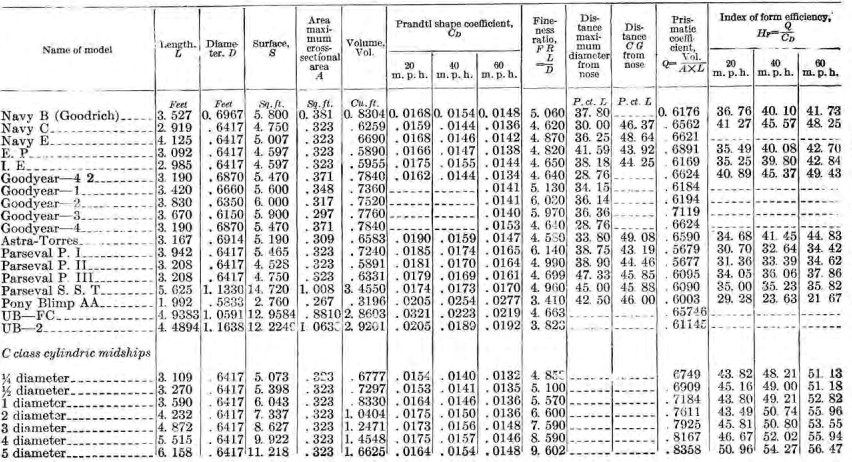
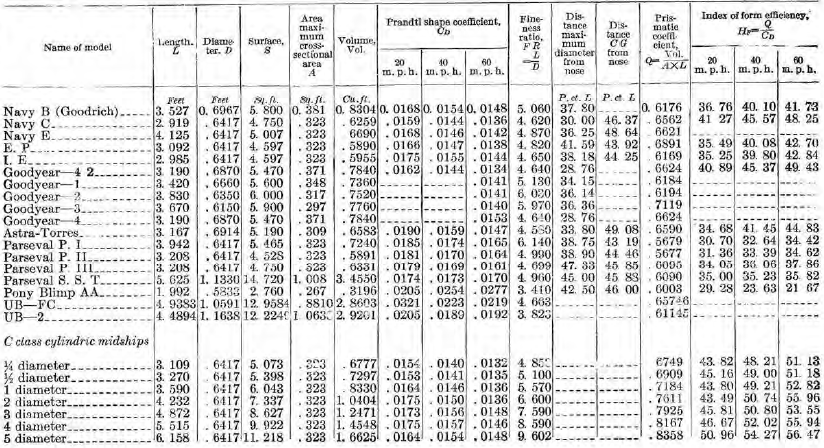
Update Drag

diff --git a/tex/chapter4Discussion.tex b/tex/chapter4Discussion.tex
@@ -4,32 +4,29 @@
 
 \begin{document}
 \chapter{Discussion}
+The current model design contains many unevaluated interference fits, that are not critical design components but a safety factor has not been computed and a level of confidence has therefore not been established. Snap-fits are a suitable alternative to interference fits, although with layered 3D prints, shearing between layers is a serious concern. To improve interference fits, the temperature can be varied to create a larger interference and the materials can be changed to increase the coefficient of friction between interfaces. An interference fit was used in the gondola hinge cap, which is not ideal as any axial load in the direction of press will work against the fit. The bearing used in the thruster assembly is a standard hub fit which should not cause complications. The gondola and casing doors utilize interference, which should work although accessing components on a door while removing the door is not ideal.  The propeller mounting is a standard interference fit, therefore it is not of concern. The keel connector and end stops rely on an interference fit with the keel, which means that if the keel is subject to any force in the x-direction greater than the interference fit force, the keel will become discontinuous. Likewise, if the gondola hits the end stop with too much force, the end stop will come out and the gondola will fall off the keel. The bearing snap-fit on the keel is not an ideal scenario as the direction of 3D printing will likely be at a 45$^{\circ}$, meaning that half of the force is going to be shearing the plastic between the layers.\\
 
-Discussion and Critical Review of Design aka Talk shit about ourselves
-\\
-The current model design contains many unevaluated interference fits, that are not critical design components but a safety factor has not been computed and a level of confidence has therefore not been established. Snap-fits are a suitable alternative to interference fits, although with layered 3D prints, shearing between layers is a serious concern. To improve interference fits, the temperature can be varied to create a larger interference and the materials can be changed to increase the coefficient of friction between interfaces. An interference fit was used in the gondola hinge cap, which is not ideal as any axial load in the direction of press will work against the fit. The bearing used in the thruster assembly is a standard hub fit which should not cause complications. The gondola and casing doors utilize interference, which should work although accessing components on a door while removing the door is not ideal.  The propeller mounting is a standard interference fit, therefore it is not of concern. The keel connector and end stops rely on an interference fit with the keel, which means that if the keel is subject to any force in the x-direction greater than the interference fit force, the keel will become discontinuous. Likewise, if the gondola hits the end stop with too much force, the end stop will come out and the gondola will fall off the keel. The bearing snap-fit on the keel is not an ideal scenario as the direction of 3D printing will likely be at a 45$^{\circ}$, meaning that half of the force is going to be shearing the plastic between the layers.
-\\
-For this project, the envelope was not designed for any purpose but for reference. Dr. Lanteigne will be designing the envelope, therefore it was only design aesthetically and for the simplicity of calculating values such as volume. Given the complexity of the keel, thruster and gondola desgin, it would be highly beneficial to have the exact design of the envelope or to have designed it independently to have components mesh better. 
-\\
-Many components are not analysed and therefore parametrized because they are over engineered for the use. Examples of over engineered components are the bearing in the thruster assembly, the strength of fasteners, the servo mounting bracket, etc. These parts were not analysed because they are much too strong to fail in any anticipated scenarios. In retrospect, it would have been reasonable to vary the material of these components to further parametrize although conventional, off-the-shelf components will always be the least expensive to procure.
-\\
-It is not reasonable to parametrize objects that vary in design between iterations, such as propellers and propeller motors. These components vary in size, shape and mounting techniques, rendering it impossible to create Solidworks models that can represent a list of different components options. The MATLAB code outputs the suggested motor and propeller options independently of the Solidworks files. This means that the some files, also including the thread on the thruster shaft are aesthetic only and the MATLAB code should be consulted for specific suggestions.
-\\
-The servo motor mounting bracket is made up of several parts that are fastened using fasteners and welding techniques that create a complicated assembly procedure. This assembly is off-the-shelf with the addition of the custom bearing bracket, but the geometry required complicates the method of installation, such as the screws inside the hollow mounting block.
-\\
-Generally, there are too many fasteners in this assembly, which negatively contribute to the weight limitations. Using alternatives such as welding or plastic fasteners could address this issue. 
-\\
-Glueing components is not the preferred method of mounting, but it is necessary in some scenarios. In order to adequately mount the thruster assembly to the envelope, double sided tape will be placed along the mounting plate and onto the envelope. removing this tape will not be easy as the polyurethane will likely tear. Glueing the thruster arms to the thruster assembly is highly dependent on the prestress in the epoxy and the integrity of the weld holding the arm cap to the mounting plate. Glueing the component casing on the thruster assembly is also not an ideal scenario as it could travel while setting and it is not longer removable once place.
-\\
-The friction wheel motor has a shaft size of 1mm and the friction wheel has an ID of above 6mm, therefore a shaft adapter piece is 3D printed to bridge the gap. This is not ideal as the plastic can easily be deformed and shear along the print orientation. It would be preferred if compatible sizes for the shaft and friction wheel were chosen, although this is difficult given the 1cm width of the keel. The friction coefficient used for the friction wheel and the polyurethane sheet covering the keel was estimated very roughly as there is a lack of data on the subject.
-\\
-3D printing technology has come a long way but it is still not feasible for load bearing applications at affordable prices, therefore it is not ideal that many components are 3D printed. Material properties for 3D printed materials are only very roughly estimated and the print setting influence the properties as infill, print speed, layer height, heat, strand orientation, etc. each have a significant impact on the properties exhibited.
-\\
-Carbon fibre parts are not easy to manufacture in house but given the complexity it would be difficult to commission custom molding without the high startup cost of mold creation (as seen in the quote obtained from an Alibaba Supplier in Appendix \cite{KEELQUOTE}). Therefore the material properties of the thruster arms are highly dependent not only on the material used but also the skill of the manufacturer.
-\\
-The cable glands used in the solid model are not dimensioned based on any design, they are simply assumed to be in existence. Cable glands are also often designed to contain one wire, but the gondola requires several to pass through one gland, minimizing it's effectiveness in waterproofing the gondola. The thruster motor was not waterproofed, therefore it will likely be the weakest link when it comes to rainfall. The thruster motor can be easily removed, making this issue less critical in a potential failure. 
-\\
-Wiring of components was not a significant consideration. There is no consideration for how the wires will be managed within the gondolas, although this will be aesthetically pleasing as few wires are visible. A downfall of wireless communication transmission is the lack of confidence in operation overtime. The thruster shaft has a wire running through it from the components to the propeller motor, with makes wire removal difficult as well as servicing the shaft and the components attached to it.
-\\
+For this project, the envelope was not designed for any purpose but for reference. Dr. Lanteigne will be designing the envelope, therefore it was only design aesthetically and for the simplicity of calculating values such as volume. Given the complexity of the keel, thruster and gondola desgin, it would be highly beneficial to have the exact design of the envelope or to have designed it independently to have components mesh better.\\
+
+Many components are not analysed and therefore parametrized because they are over engineered for the use. Examples of over engineered components are the bearing in the thruster assembly, the strength of fasteners, the servo mounting bracket, etc. These parts were not analysed because they are much too strong to fail in any anticipated scenarios. In retrospect, it would have been reasonable to vary the material of these components to further parametrize although conventional, off-the-shelf components will always be the least expensive to procure.\\
+
+It is not reasonable to parametrize objects that vary in design between iterations, such as propellers and propeller motors. These components vary in size, shape and mounting techniques, rendering it impossible to create Solidworks models that can represent a list of different components options. The MATLAB code outputs the suggested motor and propeller options independently of the Solidworks files. This means that the some files, also including the thread on the thruster shaft are aesthetic only and the MATLAB code should be consulted for specific suggestions.\\
+
+The servo motor mounting bracket is made up of several parts that are fastened using fasteners and welding techniques that create a complicated assembly procedure. This assembly is off-the-shelf with the addition of the custom bearing bracket, but the geometry required complicates the method of installation, such as the screws inside the hollow mounting block.\\
+
+Generally, there are too many fasteners in this assembly, which negatively contribute to the weight limitations. Using alternatives such as welding or plastic fasteners could address this issue. \\
+
+Glueing components is not the preferred method of mounting, but it is necessary in some scenarios. In order to adequately mount the thruster assembly to the envelope, double sided tape will be placed along the mounting plate and onto the envelope. removing this tape will not be easy as the polyurethane will likely tear. Glueing the thruster arms to the thruster assembly is highly dependent on the prestress in the epoxy and the integrity of the weld holding the arm cap to the mounting plate. Glueing the component casing on the thruster assembly is also not an ideal scenario as it could travel while setting and it is not longer removable once place.\\
+
+The friction wheel motor has a shaft size of 1mm and the friction wheel has an ID of above 6mm, therefore a shaft adapter piece is 3D printed to bridge the gap. This is not ideal as the plastic can easily be deformed and shear along the print orientation. It would be preferred if compatible sizes for the shaft and friction wheel were chosen, although this is difficult given the 1cm width of the keel. The friction coefficient used for the friction wheel and the polyurethane sheet covering the keel was estimated very roughly as there is a lack of data on the subject.\\
+
+3D printing technology has come a long way but it is still not feasible for load bearing applications at affordable prices, therefore it is not ideal that many components are 3D printed. Material properties for 3D printed materials are only very roughly estimated and the print setting influence the properties as infill, print speed, layer height, heat, strand orientation, etc. each have a significant impact on the properties exhibited.\\
+
+Carbon fibre parts are not easy to manufacture in house but given the complexity it would be difficult to commission custom molding without the high startup cost of mold creation (as seen in the quote obtained from an Alibaba Supplier in Appendix \cite{KEELQUOTE}). Therefore the material properties of the thruster arms are highly dependent not only on the material used but also the skill of the manufacturer.\\
+
+The cable glands used in the solid model are not dimensioned based on any design, they are simply assumed to be in existence. Cable glands are also often designed to contain one wire, but the gondola requires several to pass through one gland, minimizing it's effectiveness in waterproofing the gondola. The thruster motor was not waterproofed, therefore it will likely be the weakest link when it comes to rainfall. The thruster motor can be easily removed, making this issue less critical in a potential failure. \\
+
+Wiring of components was not a significant consideration. There is no consideration for how the wires will be managed within the gondolas, although this will be aesthetically pleasing as few wires are visible. A downfall of wireless communication transmission is the lack of confidence in operation overtime. The thruster shaft has a wire running through it from the components to the propeller motor, with makes wire removal difficult as well as servicing the shaft and the components attached to it.\\
+
 
 \end{document}

diff --git a/tex/analysisDragAnalysis.tex b/tex/analysisDragAnalysis.tex
@@ -1,45 +1,45 @@
 \documentclass[../main.tex]{subfiles}
-%!TEX root = ./appendixDragAnalysis.tex
+%!TEX root = ./analysisDragAnalysis.tex
 \graphicspath {{../}}
 
 \begin{document}
 \subsection{Drag Analysis}
 
-Once it was understood that the airship itself needed to be parametrizable, a new method of computed drag needed to be determined, as the simulations only accounted for the old airship dimensions. For this, an analysis from a report called \textit{Technical Manual of Airship Aerodynamics} \cite{airshipAerodynamics} was used. The following formula was used to compute drag:
+An analysis from a report called \textit{Technical Manual of Airship Aerodynamics} \cite{airshipAerodynamics} was used to determine the effect of drag on the airship. The following formula was used to compute the total drag force:
 
-\begin{equation}
+\begin{equation*}
 		D = C_D\rho (vol)^{2/3}v^{1.86}
+\end{equation*}
+
+Where $D$ is the drag in $lbf$, $ \rho $ is the density of air $[slugs/ft^3]$, $vol$ is the volume of the airship envelope $[ft^3]$, $v$ is the velocity of the airship $[ft/s]$, and $C_D$ is the Prandtl Shape Coefficient.\\
+
+The formula is converted into metric units for simplicity, using a multiplication factor:
+
+\begin{equation} \label{eqnDrag}
+D[N] = 0.847103*(C_D)*(\rho[kg/m^3])*(vol [m^3])^{2/3}*(v [m/s])^{1.86}
 \end{equation}
 
-Where $D$ is the drag in $lbf$ (converted to N), $ \rho $ is the density of air $[slugs/ft^3]$, $vol$ is the volume of the airship envelope $[ft^3]$, $v$ is the velocity of the airship $[ft/s]$, and $C_D$ is the Prandtl Shape Coefficient. For this airship, $C_D$ is estimated using Table \ref{tbl:airshipTable} below.
+For this airship, $C_D$ is estimated using Table \ref{tbl:airshipTableCont} below.\\
 
 \begin{table}[H]
 	\centering
-	\caption{Airship Model Characteristics and Data \cite{airshipAerodynamics}}
-	\includegraphics[width=\linewidth]{img/drag/airships.PNG}
-	\label{tbl:airshipTable}
+	\caption{Airship Model Characteristics and Data \cite{airshipAerodynamics} Continued}
+	\includegraphics[width=\linewidth]{img/drag/airships2.PNG}
+	\label{tbl:airshipTableCont}
 \end{table}
 
-Various airship dimensions can be seen below here. The aircraft dimensions shown below were for testing done in a wind tunnel to determine drag effects on real airships, so they are scaled down models. The goal is to select a model that has comparable dimensions to the airship we are using. As a starting point, the fineness ratio $f$ is computed for out airship. As an estimate, $f=L/D \approx 3.6/1.2 = 3$. In reference to Table \ref{tbl:airshipTable}, the closest match would be the Pony Blimp AA, with a fineness ratio of 3.4.\\
 
-It can be deduced from the table that the Prandtl Shape coefficient encompasses both skin and form drag. When the fineness ratio is higher, skin friction drag will have a larger effect than form drag, so when the airspeed is increased (from 20mph to 60mph), $C_D$ will decrease. The opposite is true with small fineness ratios, where the form drag plays a larger role, therefore the $C_D$ increases as airspeed is increased. To be conservative, the highest $C_D$ from the Pony Blimp AA, therefore $C_D = 0.0227$. An example calculation is shown below, for a windspeed of $20m/s$:
-
-Various airship dimensions can be seen below here. The aircraft dimensions shown below were for testing done in a wind tunnel to determine drag effects on real airships, so they are scaled down models. The goal is to select a model that has comparable dimensions to the airship to be constructed for this project.\\
+The aircraft dimensions shown in Table \ref{tbl:airshipTableCont} are results of testing  in a wind tunnel, used to determine drag effects on real airships. They are therefore scaled down models. The goal is to select a model that has comparable dimensions to the airship to be constructed for this project.\\
 
 It can be deduced from the table that the Prandtl Shape coefficient encompasses both skin and form drag. When the fineness ratio is higher, skin friction drag will have a larger effect than form drag, so when the airspeed is increased (from 20mph to 60mph), $C_D$ will decrease. The opposite is true with small fineness ratios, where the form drag plays a larger role, therefore the $C_D$ increases as airspeed is increased. \\
 
-As a example, assuming the blimp designed has a fineness ratio of 3.4, the comparable blimp would be the Pony Blimp AA. To be conservative, the highest $C_D$ from the Pony Blimp AA is $C_D = 0.0227$. The calculation is shown below, for a windspeed of $20m/s$:
+As a example, assuming the blimp designed has a fineness ratio of 3.5, the comparable blimp would be the Elliptical series E 4. To be conservative, the highest $C_D$ from the E 4 is $C_D = 0.0167$. The calculation is shown below, for a windspeed of $20m/s$:
 
-\begin{equation} \label{exDrag}
-D = C_D\rho (vol)^{2/3}v^{1.86}=0.0227*(0.00237 slugs/ft^3)*(122.644 ft^3)^{2/3}(65.616 ft/s) ^{1.86} = 3.183 lbf = 14.1586N 
-\end{equation}
+\begin{equation*} \label{exDrag}
+D = C_D\rho (vol)^{2/3}v^{1.86}=0.0167*(0.00237 slugs/ft^3)*(122.644 ft^3)^{2/3}(65.616 ft/s) ^{1.86} = 2.342 lbf = 10.417735N 
+\end{equation*}
 
-The formula will is converted into metric units for simplicity, using a multiplication factor.
-\begin{equation}
-D = 0.847103*(C_D)*(\rho[kg/m^3])*(vol [m^3])^{2/3}*(v [m/s])^{1.86}
-\end{equation}
-
-Based on Table \ref{tbl:contributionsTable}, the envelope contributes 45\% to the drag. Therefore the total drag will be estimated as $D_{total}=D/0.45$. Based on this, the total drag in found in Equation \ref{exDrag} is now $31.463N$
+Based on Table \ref{tbl:contributionsTable}, the envelope contributes 45\% to the drag. Therefore the total drag will be estimated as $D_{total}=D/0.45$. Based on this, the total drag in found in Equation \ref{exDrag} is now $23.15N$.
 
 \begin{table}[H]
 	\centering
@@ -48,23 +48,38 @@ Based on Table \ref{tbl:contributionsTable}, the envelope contributes 45\% to th
 	\label{tbl:contributionsTable}
 \end{table}
 
-The value of $C_D$ will change based on the fineness ratio. In the GUI of the MATLAB program, the user will select a fineness ratio from a drop-down menu, of 3.5, 4, and 4.5, followed by a total length of the blimp. To calculate the drag for these situations, the volume of the blimp will be computed, and the $C_D$ will change based on the fineness ratio, as follows:
+These estimates are meant to be extremely conservative, due to the fact that the construction of the blimp will not be perfect, and any modelling situation will not be able to capture all of the imperfections in the build.\\
+
+The value of $C_D$ will change based on the fineness ratio. In the GUI of the MATLAB program, the user will input the dimensions of the airship, and the program will calculate $C_D$ based on the fineness ratio ($fr$). The GUI will only allow the user to input dimensions which result in fineness ratios of between 3.0 and 4.0. This is due to the fact that these fineness ratios most accurately reflect the shape of the pre-existing keel. The relationship is found by curve-fitting the data in Table \ref{tbl:finenessCoefficient}, which were obtained from values in Table \ref{tbl:airshipTableCont}.
+
 \begin{table}[H]
 	\caption{Fineness Ratios and Corresponding $C_D$}
 	\label{tbl:finenessCoefficient}
 \begin{center}
 	\begin{tabular}{|c|c|}
 	\hline 
-	\textbf{Fineness Ratio} & \textbf{$C_D$} \\ 
+	\textbf{Fineness Ratio $fr$} & \textbf{$C_D$} \\ 
 	\hline 
-	3.5 & 0.0254 \\ 
+	3.000 & 0.0184 \\ 
 	\hline 
-	4 & 0.0189 \\ 
+	3.500 & 0.0167 \\ 
 	\hline 
-	4.5 & 0.0159 \\ 
+	4.000 & 0.0147 \\ 
+	\hline
+	4.460 & 0.0138 \\ 
 	\hline 
+	6.070 & 0.0132 \\ 
+	\hline  
 \end{tabular} 
 \end{center}
 \end{table}
+
+The resulting equation for drag coefficient is found as:
+
+\begin{equation} \label{eqnCD}
+	C_D(fr)= 0.00092642*fr^2 -0.010134*fr + 0.040569
+\end{equation}
+
+Equations \ref{eqnDrag} and \ref{eqnCD} are used in conjunction to determine the drag force acting on the blimp.
 
 \end{document}

diff --git a/tex/appendixDragAnalysis.tex b/tex/appendixDragAnalysis.tex
@@ -38,6 +38,6 @@ The equation from the curve (generated from MATLAB) was found to be:
 
 Where $ D $ is the drag force and $ v $ is the airship speed, in $m/s$. Equation \ref{dragEqn} is what is used throughout the report to obtain drag forces.\\
 
-It is clear that the values computed at here were much higher than that computed from Section \ref{drag}. This suggests that the program was not outputting reliable results. The mesh resolution had a huge impact on the results, as expected, with the value for drag force going from $ 44.1682N $ at $ 20m/s $ to $ 28N $ at $ 20m/s $. The second value, with the more refined mesh, was much closer to the result shown in Section \ref{drag}, which was $31.463N$.
+It is clear that the values computed at here were much higher than that computed from Section \ref{drag}. This suggests that the program was not outputting reliable results. However, it was found the mesh resolution had a huge impact on the results, as expected, with the value for drag force going from $ 44.1682N $ at $ 20m/s $ to $ 28N $ at $ 20m/s $. The second value, with the more refined mesh, was much closer to the result shown in Section \ref{drag}, which was $23.15N$.
 
 \end{document}

diff --git a/main.tex b/main.tex
@@ -298,7 +298,6 @@ half page, one paragraph
 \subfile{./tex/analysisDragAnalysis.tex}
 \subfile{./tex/analysisEnvelope.tex}
 
-
 \section{Component Analysis}
 \subfile{./tex/analysisThrusterAssemblySelection.tex}
 \subfile{./tex/analysisThrusterShaft.tex}
